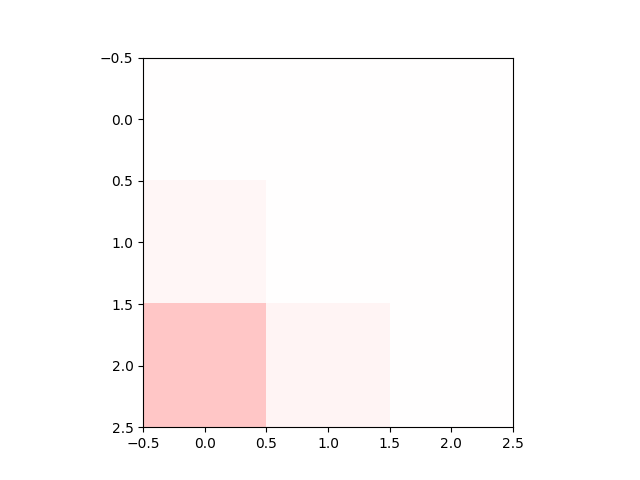
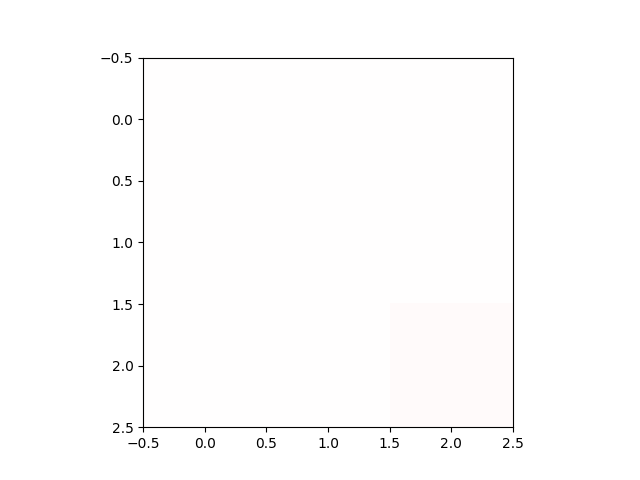
change fire brigade logic

Changed region(s): [[0.2188, 0.625, 0.4375, 0.9062]]

diff --git a/simulation.py b/simulation.py
@@ -23,7 +23,7 @@ def main():
     map = ForestMap.from_conf("simulation/configurations/test_conf.json")
     fire_brigades = FireBrigade.from_conf("simulation/configurations/test_conf.json")
 
-    sectors_to_extinguish = list(FireSituation)
+    # sectors_to_extinguish = list(FireSituation)
     fire_situations = 0
     num_fire_brigades_available = len(fire_brigades)
 
@@ -46,8 +46,19 @@ def main():
                 if current_sector.sector_type == 6:
                     continue
 
+                # simulate fire extinguishing
+                if current_sector.burn_level > 0:
+                    extinguish = 0
+                    for fire_brigade in fire_brigades:
+                        # TODO: TUTAJ IF: jeśli fire_brigade jest w danym sektorze
+                        if fire_brigade.state == FireBrigadeState.AVAILABLE or fire_brigade.state == FireBrigadeState.EXTINGUISHING:
+                            extinguish = extinguish + random.uniform(0.001, 0.01)
+                            break
+                        fire_brigade.move()
+                    map.sectors[current_sector.row][current_sector.column].extinguish_level += extinguish
+
                 if current_sector.burn_level > 0 and current_sector.burn_level < 100 and current_sector.extinguish_level < current_sector.burn_level:
-                    additional_burn = random.uniform(0.1, 2)
+                    additional_burn = random.uniform(0.001, 0.05)
                     map.sectors[current_sector.row][current_sector.column].burn_level += additional_burn
                     map.sectors[current_sector.row][current_sector.column].burn_level = min(100, map.sectors[
                         current_sector.row][current_sector.column].burn_level)
@@ -66,44 +77,44 @@ def main():
                         map.sectors[current_sector.row][current_sector.column].burn_level = min(100, map.sectors[
                             current_sector.row][current_sector.column].burn_level)
                         
-                if current_sector.burn_level > 20 and current_sector.sector_id not in sectors_to_extinguish:
-                    sectors_to_extinguish.append(FireSituation(
-                        fire_situations,
-                        FireSituationState.ACTIVE,
-                        None,
-                        current_sector.sector_id,
-                        current_sector.burn_level,
-                        0,
-                        timestamp=time.time()
-                        )
-                    )
-                    fire_situations += 1
-                    print(f"New fire situation: {current_sector.sector_id}, {current_sector.burn_level}")
-
+                # if current_sector.burn_level > 20 and current_sector.sector_id not in sectors_to_extinguish:
+                #     sectors_to_extinguish.append(FireSituation(
+                #         fire_situations,
+                #         FireSituationState.ACTIVE,
+                #         None,
+                #         current_sector.sector_id,
+                #         current_sector.burn_level,
+                #         0,
+                #         timestamp=time.time()
+                #         )
+                #     )
+                #     fire_situations += 1
+                #     print(f"New fire situation: {current_sector.sector_id}, {current_sector.burn_level}")
+                #
 
                 print(f"Current sector: {current_sector.row}, {current_sector.column}, burn level: {current_sector.burn_level}")
         
-        if FireSituationState.ACTIVE in sectors_to_extinguish: #TODO: think about better condition
-            # TODO: implement sending fire brigades
-            for fire_situation in sectors_to_extinguish:
-                if fire_situation.state == FireSituationState.ACTIVE:
-                    sector_situation = map.get_sector(fire_situation.sector_id)
-                    if num_fire_brigades_available != 0:
-                        for fire_brigade in fire_brigades:
-                            print(fire_brigade.fire_brigade_id, fire_brigade.state)
-                            print(fire_brigade.state == FireBrigadeState.AVAILABLE)
-                            if fire_brigade.state == FireBrigadeState.AVAILABLE:
-                                # print(fire_brigade.destination)
-                                fire_situation.fire_brigade_id = fire_brigade.fire_brigade_id
-                                fire_situation.state = FireSituationState.BRIGADE_COMING
-                                print(map.get_sector_location(sector_situation))
-                                fire_brigade.move(map.get_sector_location(sector_situation))
-                                print("Fire brigade is sent")
-                                num_fire_brigades_available -= 1
-                                break
-                    else:
-                        print("No fire brigades available")
-                        break
+        # if FireSituationState.ACTIVE in sectors_to_extinguish: #TODO: think about better condition
+        #     # TODO: implement sending fire brigades
+        #     for fire_situation in sectors_to_extinguish:
+        #         if fire_situation.state == FireSituationState.ACTIVE:
+        #             sector_situation = map.get_sector(fire_situation.sector_id)
+        #             if num_fire_brigades_available != 0:
+        #                 for fire_brigade in fire_brigades:
+        #                     print(fire_brigade.fire_brigade_id, fire_brigade.state)
+        #                     print(fire_brigade.state == FireBrigadeState.AVAILABLE)
+        #                     if fire_brigade.state == FireBrigadeState.AVAILABLE:
+        #                         # print(fire_brigade.destination)
+        #                         fire_situation.fire_brigade_id = fire_brigade.fire_brigade_id
+        #                         fire_situation.state = FireSituationState.BRIGADE_COMING
+        #                         print(map.get_sector_location(sector_situation))
+        #                         fire_brigade.move(map.get_sector_location(sector_situation))
+        #                         print("Fire brigade is sent")
+        #                         num_fire_brigades_available -= 1
+        #                         break
+        #             else:
+        #                 print("No fire brigades available")
+        #                 break
 
         # break
         if i % 10 == 0:

diff --git a/simulation/fire_brigades/fire_brigade.py b/simulation/fire_brigades/fire_brigade.py
@@ -2,6 +2,7 @@ import logging
 from datetime import datetime
 import json
 
+from simulation import forest_map
 from simulation.agent import MovingAgent
 from simulation.forest_map import ForestMap
 from simulation.location import Location
@@ -17,12 +18,11 @@ class FireBrigade(MovingAgent):
         initial_state: FireBrigadeState,
         base_location: Location,
         initial_location: Location,
-        destination: Location
     ):
-        # MovingAgent.__init__(self, forest_map, timestamp, base_location, initial_location, destination)
+        MovingAgent.__init__(self, forest_map, timestamp, base_location, initial_location)
         self._fire_brigade_id = fire_brigade_id
         self._state = initial_state
-        self._destination = destination
+        self._destination = initial_location
 
     @property
     def fire_brigade_id(self) -> str:
@@ -45,40 +45,69 @@ class FireBrigade(MovingAgent):
         for val in conf["fireBrigades"]:
             fire_brigade_id=val["fireBrigadeId"],
             timestamp=val["timestamp"],
-            initial_state=val["initialState"],
+            initial_state=FireBrigadeState.AVAILABLE,
             base_location=Location(**val["baseLocation"]),
             initial_location=Location(**val["initialLocation"]),
-            destination=Location(**val["destination"])
+            destination=initial_location
             print(fire_brigade_id[0], timestamp, FireBrigadeState(initial_state[0]), base_location, initial_location, destination)
-            fire_brigades.append(cls(fire_brigade_id[0], timestamp, FireBrigadeState(initial_state[0]), base_location, initial_location, destination))
+            fire_brigades.append(cls(fire_brigade_id[0], timestamp, FireBrigadeState.AVAILABLE, base_location, initial_location))
 
         return fire_brigades
 
     def next(self):
         pass
 
-    def move(self, next_destination=None) -> None:
+
+    def change_destination(self, new_destination: Location): # to wywołać jak dostaniemy nową lokalizację na kolejce strażaków
+        self._destination = new_destination
+        if abs(self._destination.row - self._location.row) <= 0.1 and abs(self._destination.column - self._location.column) <= 0.1:
+            self._state = FireBrigadeState.AVAILABLE
+            print('Fire brigade has reached the destination.')
+
+        else:
+            self._state = FireBrigadeState.TRAVELLING
+        self.move()
+
+    def move(self) -> None: # to w każdej pętli
+        delta = 0.1
+
+        if(self._state == FireBrigadeState.TRAVELLING):
+            # make location delta = 0.1
+            if(self._destination.row > self._location.row):
+                self._location.row += delta
+            elif(self._destination.row < self._location.row):
+                self._location.row -= delta
+            if(self._destination.column > self._location.column):
+                self._location.column += delta
+            elif(self._destination.column < self._location.column):
+                self._location.column -= delta
+
+        if abs(self._destination.row - self._location.row) <= 0.1 and abs(self._destination.column - self._location.column) <= 0.1:
+                self._state = FireBrigadeState.AVAILABLE
+                print('Fire brigade has reached the destination.')
+
+
         # if next_destination is None:
         #     next_destination = self._destination
-            
-        if self._state == FireBrigadeState.AVAILABLE and next_destination != None:
-            self._state = FireBrigadeState.TRAVELLING
-            self._destination = next_destination
-            print('Fire brigade is travelling to the fire.')
 
-        elif self._state == FireBrigadeState.TRAVELLING:
-            if self._destination == self._base_location:
-                self._state = FireBrigadeState.AVAILABLE
-                print('Fire brigade has returned to the base.')
-            elif self._destination == self._initial_location:
-                self._state = FireBrigadeState.EXTINGUISHING
-
-            if next_destination != None:
-                self._destination = next_destination
-
-        elif self._state == FireBrigadeState.EXTINGUISHING:
-            self._state = FireBrigadeState.AVAILABLE
-            self._destination = self._base_location
+        # if self._state == FireBrigadeState.AVAILABLE and next_destination != None:
+        #     self._state = FireBrigadeState.TRAVELLING
+        #     self._destination = next_destination
+        #     print('Fire brigade is travelling to the fire.')
+        #
+        # elif self._state == FireBrigadeState.TRAVELLING:
+        #     if self._destination == self._base_location:
+        #         self._state = FireBrigadeState.AVAILABLE
+        #         print('Fire brigade has returned to the base.')
+        #     elif self._destination == self._initial_location:
+        #         self._state = FireBrigadeState.EXTINGUISHING
+        #
+        #     if next_destination != None:
+        #         self._destination = next_destination
+        #
+        # elif self._state == FireBrigadeState.EXTINGUISHING:
+        #     self._state = FireBrigadeState.AVAILABLE
+        #     self._destination = self._base_location
 
         self.log()
 

diff --git a/simulation/agent.py b/simulation/agent.py
@@ -54,7 +54,18 @@ class MovingAgent(Agent, ABC):
         self._base_location = base_location
         self._destination = destination
         Agent.__init__(self, forest_map, timestamp, initial_location)
-        
+
+    def __init__(
+            self,
+            forest_map: ForestMap,
+            timestamp: datetime,
+            base_location: Location,
+            initial_location: Location,
+    ):
+        self._base_location = base_location
+        self._destination = base_location
+        Agent.__init__(self, forest_map, timestamp, initial_location)
+
     @property
     def base_location(self):
         return self._base_location

diff --git a/simulation/forest_map.py b/simulation/forest_map.py
@@ -88,6 +88,8 @@ class ForestMap:
 
 
 
+
+
         return ForestMap(**values)
 
     @property
